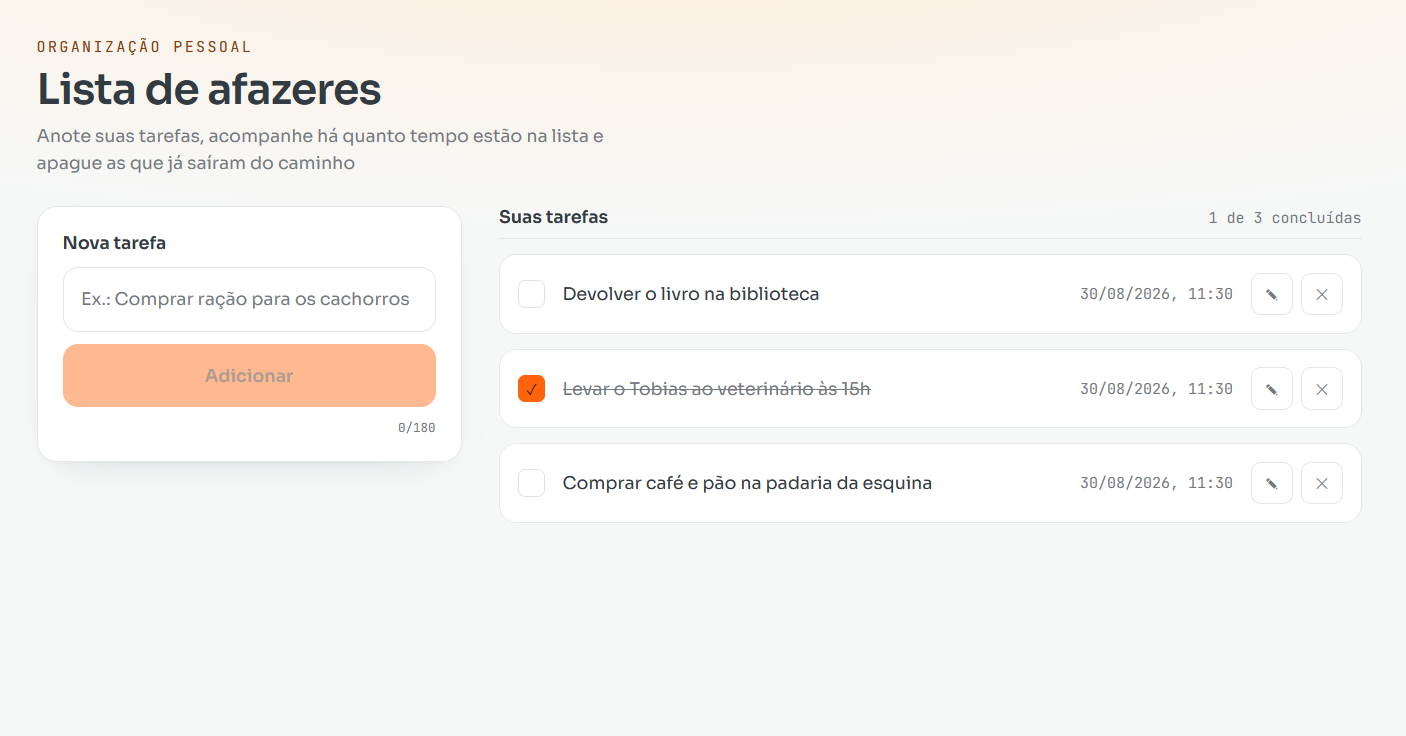
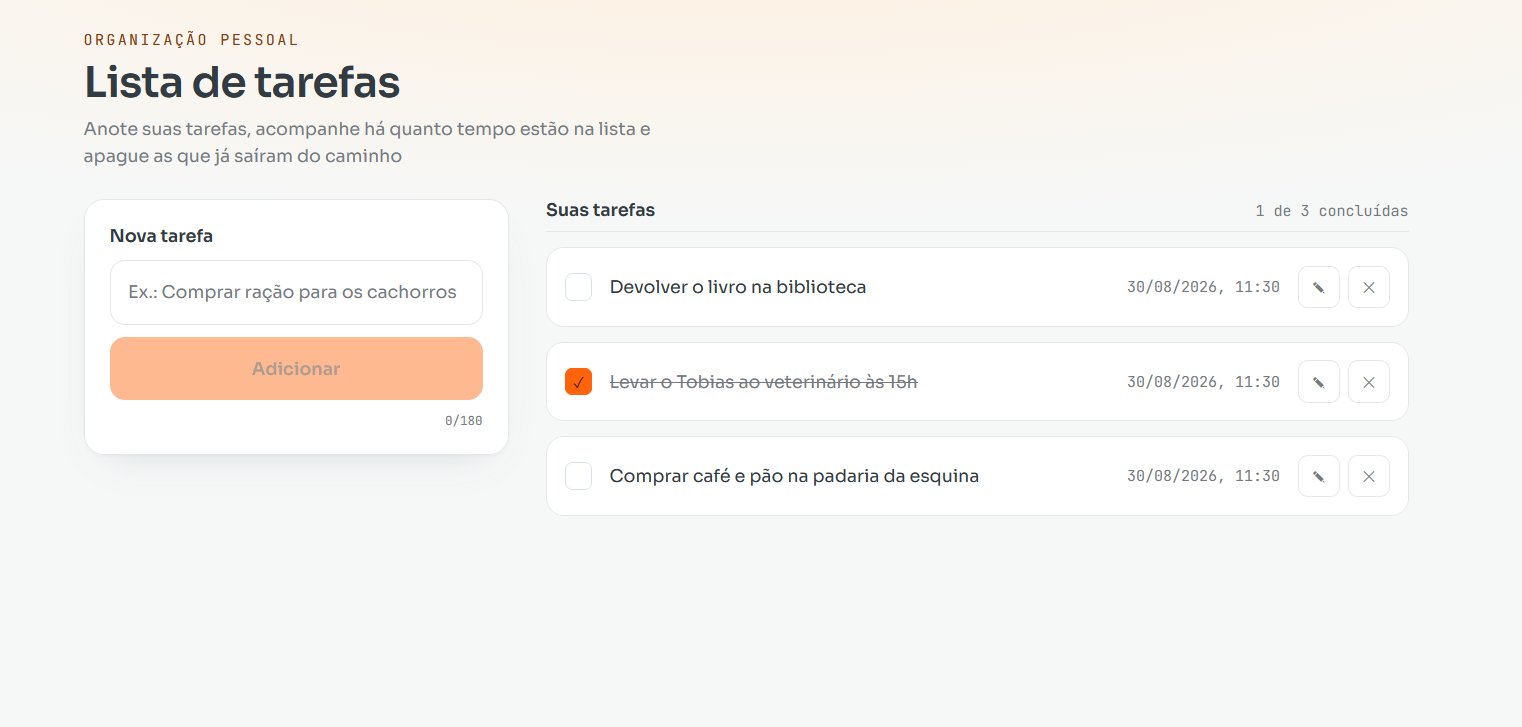
docs: adiciona wireframe e fluxograma

diff --git a/src/App.tsx b/src/App.tsx
@@ -87,7 +87,7 @@ function App() {
     <div className={styles.shell}>
       <header className={styles.header}>
         <span className={styles.eyebrow}>Organização pessoal</span>
-        <h1 className={styles.title}>Lista de afazeres</h1>
+        <h1 className={styles.title}>Lista de tarefas</h1>
         <p className={styles.description}>
           Anote suas tarefas, acompanhe há quanto tempo estão na lista e apague
           as que já saíram do caminho

diff --git a/README.md b/README.md
@@ -1,4 +1,4 @@
-# Lista de afazeres
+# Lista de tarefas
 
 | Desktop                        | Mobile                       |
 | ------------------------------ | ---------------------------- |
